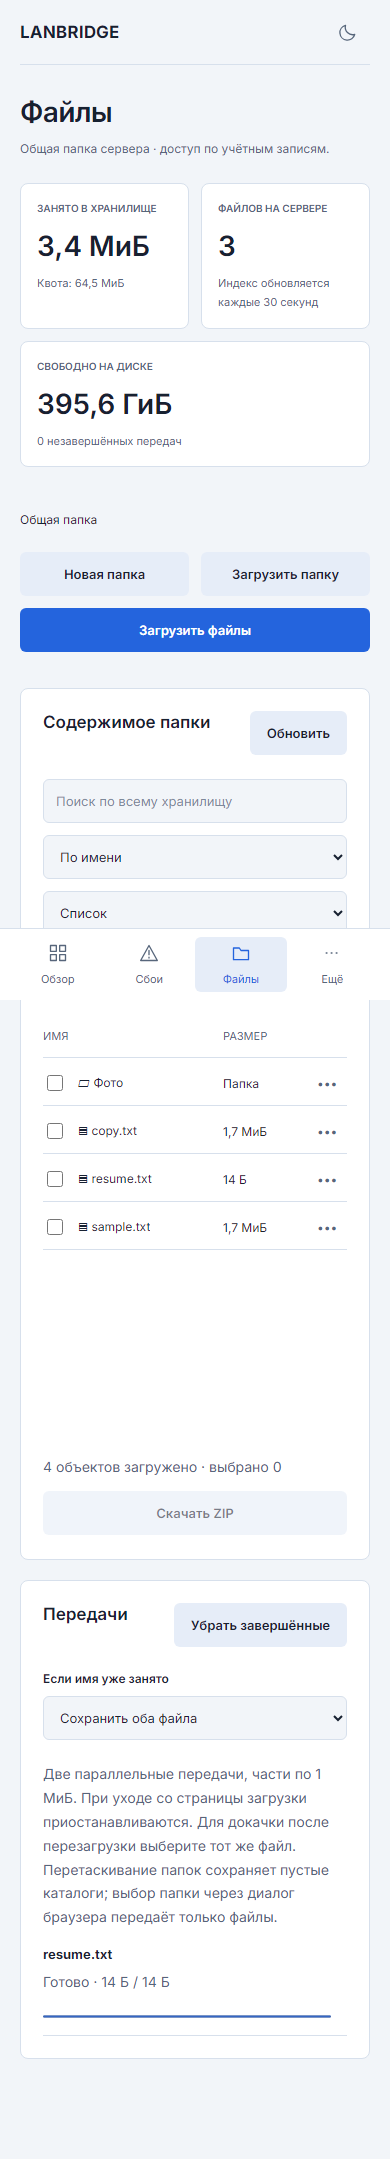
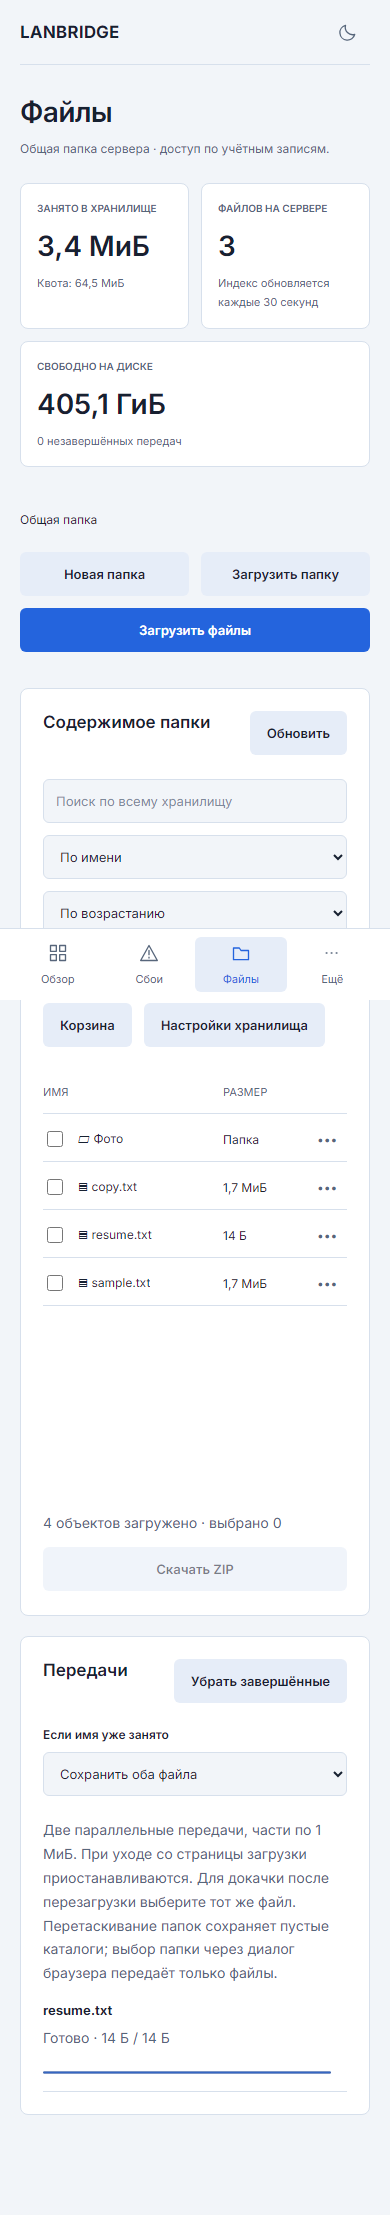
feat: add file sort direction

diff --git a/web/src/files.js b/web/src/files.js
@@ -10,15 +10,16 @@ const labels={queued:'В очереди',hashing:'Проверка SHA-256',uplo
 function hashFile(file,signal,onProgress){return new Promise((resolve,reject)=>{const worker=new Worker(new URL('./hash-worker.js',import.meta.url),{type:'module'});const close=()=>{worker.terminate();signal.removeEventListener('abort',abort)};const abort=()=>{close();reject(new DOMException('Приостановлено','AbortError'))};signal.addEventListener('abort',abort,{once:true});worker.onmessage=({data})=>{if(data.error){close();reject(new Error(data.error))}else if(data.hash){close();resolve(data.hash)}else onProgress(data.progress)};worker.onerror=()=>{close();reject(new Error('Не удалось вычислить SHA-256'))};worker.postMessage(file)})}
 export function FileBrowser({api,notify,user,csrf}){
  const[folder,setFolder]=useState('.'),[query,setQuery]=useState(''),[sort,setSort]=useState('name'),[items,setItems]=useState([]),[more,setMore]=useState(false),[loading,setLoading]=useState(true),[error,setError]=useState(''),[storage,setStorage]=useState(null),[selected,setSelected]=useState([]),[scroll,setScroll]=useState(0),[dialog,setDialog]=useState(null),[queue,setQueue]=useState([]),[conflict,setConflict]=useState('both'),[trash,setTrash]=useState(null);
+ const[order,setOrder]=useState('asc');
  const viewKey='lanbridge-file-view-'+user.id;
  const[view,setView]=useState(()=>{try{return localStorage.getItem(viewKey)==='grid'?'grid':'list'}catch{return 'list'}}),[width,setWidth]=useState(0);
  useEffect(()=>{try{localStorage.setItem(viewKey,view)}catch{/* Storage may be disabled; keep the in-memory preference. */}},[viewKey,view]);
  const input=useRef(),directory=useRef(),resumeInput=useRef(),viewport=useRef(),resumeItem=useRef(),jobs=useRef([]),active=useRef(0),alive=useRef(true),generation=useRef(0),refreshRef=useRef();
- const refresh=async(append=false)=>{const seq=++generation.current;setLoading(true);try{const data=await api('files?'+new URLSearchParams({path:folder,q:query,sort,order:'asc',limit:500,offset:append?items.length:0}));if(!alive.current||seq!==generation.current)return;setItems(append?[...items,...data]:data);setMore(data.length===500);setError('');if(!append){setScroll(0);if(viewport.current)viewport.current.scrollTop=0}setStorage(await api('files/storage'))}catch(e){if(alive.current)setError(e.message)}finally{if(alive.current&&seq===generation.current)setLoading(false)}};
+ const refresh=async(append=false)=>{const seq=++generation.current;setLoading(true);try{const data=await api('files?'+new URLSearchParams({path:folder,q:query,sort,order,limit:500,offset:append?items.length:0}));if(!alive.current||seq!==generation.current)return;setItems(append?[...items,...data]:data);setMore(data.length===500);setError('');if(!append){setScroll(0);if(viewport.current)viewport.current.scrollTop=0}setStorage(await api('files/storage'))}catch(e){if(alive.current)setError(e.message)}finally{if(alive.current&&seq===generation.current)setLoading(false)}};
  refreshRef.current=refresh;
  const redraw=()=>{if(alive.current)setQueue([...jobs.current])};
  useEffect(()=>{alive.current=true;api('uploads').then(data=>{if(!alive.current)return;jobs.current=data.map(u=>({...u,key:u.id,state:u.state==='committing'?'paused':'choose',serverState:u.state}));redraw()}).catch(e=>notify(e.message,true));return()=>{alive.current=false;for(const j of jobs.current)j.controller?.abort()}},[]);
- useEffect(()=>{setSelected([]);const timer=setTimeout(()=>refresh(),query?200:0);return()=>{clearTimeout(timer);generation.current++}},[folder,query,sort]);
+ useEffect(()=>{setSelected([]);const timer=setTimeout(()=>refresh(),query?200:0);return()=>{clearTimeout(timer);generation.current++}},[folder,query,sort,order]);
  async function request(path,method,body,signal,extra={}){const response=await fetch('/api/'+path,{method,signal,headers:{'X-CSRF-Token':csrf,...extra},body});const value=await response.json();if(!response.ok)throw new Error(value.error||'Ошибка передачи');return value}
  async function run(j){
   const controller=new AbortController();j.controller=controller;j.state='hashing';j.error='';redraw();
@@ -54,7 +55,7 @@ export function FileBrowser({api,notify,user,csrf}){
  return html`<div class="stats three"><section class="stat"><h2>ЗАНЯТО В ХРАНИЛИЩЕ</h2><strong>${storage?bytes(storage.used):'—'}</strong><p>${storage?.settings.global_limit?'Квота: '+bytes(storage.settings.global_limit):'Квота не ограничена'}</p></section><section class="stat"><h2>ФАЙЛОВ НА СЕРВЕРЕ</h2><strong>${storage?.files??'—'}</strong><p>Индекс обновляется каждые 30 секунд</p></section><section class="stat"><h2>СВОБОДНО НА ДИСКЕ</h2><strong>${storage?bytes(storage.available):'—'}</strong><p>${busy} незавершённых передач</p></section></div>
  <div class="file-actions"><nav aria-label="Путь к папке"><button class="monitor-name" onClick=${()=>setFolder('.')}>Общая папка</button>${folder!=='.'&&folder.split('/').map((part,i)=>html`<span> / <button class="monitor-name" onClick=${()=>setFolder(folder.split('/').slice(0,i+1).join('/'))}>${part}</button></span>`)}</nav><div class="dialog-actions"><button class="button secondary" onClick=${()=>setDialog({action:'mkdir'})}>Новая папка</button><button class="button secondary" onClick=${()=>directory.current.click()}>Загрузить папку</button><button class="button" onClick=${()=>input.current.click()}>Загрузить файлы</button></div></div>
  <input hidden type="file" multiple ref=${input} onChange=${e=>{addFiles(Array.from(e.currentTarget.files));e.currentTarget.value=''}}/><input hidden type="file" multiple webkitdirectory=${true} ref=${directory} onChange=${e=>{addFiles(Array.from(e.currentTarget.files));e.currentTarget.value=''}}/><input hidden type="file" ref=${resumeInput} onChange=${e=>{const file=e.currentTarget.files[0],j=resumeItem.current;if(file&&j){if(file.size!==j.size)notify('Размер исходного файла не совпадает',true);else{j.file=file;j.state='queued';redraw();pump()}}e.currentTarget.value=''}}/>
- <section class="panel file-panel" onDragOver=${e=>e.preventDefault()} onDrop=${dropped}><div class="panel-heading"><h2>Содержимое папки</h2><button class="button secondary" onClick=${()=>refresh()} disabled=${loading}>Обновить</button></div><div class="toolbar"><input aria-label="Поиск файлов" placeholder="Поиск по всему хранилищу" value=${query} onInput=${e=>setQuery(e.currentTarget.value)}/><select aria-label="Сортировка файлов" value=${sort} onChange=${e=>setSort(e.currentTarget.value)}><option value="name">По имени</option><option value="size">По размеру</option><option value="modified">По дате</option></select><select aria-label="Вид файлов" value=${view} onChange=${e=>setView(e.currentTarget.value)}><option value="list">Список</option><option value="grid">Плитки</option></select><button class="button secondary" onClick=${openTrash}>Корзина</button>${user.role==='admin'&&html`<button class="button secondary" disabled=${!storage} onClick=${()=>setDialog({action:'storage'})}>Настройки хранилища</button>`}</div>${error&&html`<p class="form-error" role="alert">${error}</p>`}
+ <section class="panel file-panel" onDragOver=${e=>e.preventDefault()} onDrop=${dropped}><div class="panel-heading"><h2>Содержимое папки</h2><button class="button secondary" onClick=${()=>refresh()} disabled=${loading}>Обновить</button></div><div class="toolbar"><input aria-label="Поиск файлов" placeholder="Поиск по всему хранилищу" value=${query} onInput=${e=>setQuery(e.currentTarget.value)}/><select aria-label="Сортировка файлов" value=${sort} onChange=${e=>setSort(e.currentTarget.value)}><option value="name">По имени</option><option value="size">По размеру</option><option value="modified">По дате</option></select><select aria-label="Порядок сортировки" value=${order} onChange=${e=>setOrder(e.currentTarget.value)}><option value="asc">По возрастанию</option><option value="desc">По убыванию</option></select><select aria-label="Вид файлов" value=${view} onChange=${e=>setView(e.currentTarget.value)}><option value="list">Список</option><option value="grid">Плитки</option></select><button class="button secondary" onClick=${openTrash}>Корзина</button>${user.role==='admin'&&html`<button class="button secondary" disabled=${!storage} onClick=${()=>setDialog({action:'storage'})}>Настройки хранилища</button>`}</div>${error&&html`<p class="form-error" role="alert">${error}</p>`}
  <div class="file-list-head" hidden=${view==='grid'}><span>ИМЯ</span><span>РАЗМЕР</span><span>ИЗМЕНЁН</span><span>ДОСТУП</span></div><div class="file-viewport" ref=${viewport} onScroll=${e=>setScroll(e.currentTarget.scrollTop)} aria-label="Список файлов" aria-busy=${loading} role="list"><div style=${{height:Math.max(Math.ceil(items.length/columns)*rowHeight,items.length?0:140)+'px',position:'relative'}}>${visible.map((item,i)=>html`<div role="listitem" class=${view==='grid'?'file-row file-tile':'file-row'} key=${item.path} aria-posinset=${start+i+1} aria-setsize=${items.length} style=${view==='grid'?{top:(Math.floor((start+i)/columns)*rowHeight)+'px',left:((start+i)%columns*100/columns)+'%',width:'calc('+100/columns+'% - 10px)'}:{top:((start+i)*48)+'px'}}><div class="file-name"><input type="checkbox" aria-label=${'Выбрать '+item.name} checked=${selected.includes(item.path)} onChange=${e=>setSelected(e.currentTarget.checked?[...selected,item.path]:selected.filter(p=>p!==item.path))}/>${item.directory?html`<button class="monitor-name" title=${item.path} onClick=${()=>{setFolder(item.path);setQuery('')}}>▱ ${item.name}</button>`:html`<a title=${item.path} href=${download(item.path)}>▤ ${item.name}</a>`}</div><span>${item.directory?'Папка':bytes(item.size)}</span><span>${new Date(item.modified/1e6).toLocaleDateString('ru-RU')}</span><div class="file-row-end"><span>${{users:'Пользователи',admin:'Администратор',read:'Чтение'}[item.access]}</span><button class="icon-button" aria-label=${'Действия: '+item.name} onClick=${()=>setDialog({action:'menu',item})}>•••</button></div></div>`)}${!items.length&&html`<div class="empty compact"><h3>${loading?'Загрузка…':query?'Ничего не найдено':'Папка пуста'}</h3><p>Перетащите сюда файлы или папки.</p></div>`}</div></div><div class="file-actions"><span class="muted">${items.length} объектов загружено · выбрано ${selected.length}</span><div class="dialog-actions">${more&&html`<button class="button secondary" disabled=${loading} onClick=${()=>refresh(true)}>Загрузить ещё</button>`}<button class="button secondary" disabled=${!selected.length} onClick=${zip}>Скачать ZIP</button></div></div></section>
  <section class="panel"><div class="panel-heading"><h2>Передачи</h2><button class="button secondary" onClick=${()=>{jobs.current=jobs.current.filter(j=>j.state!=='complete');redraw()}}>Убрать завершённые</button></div><label class="field"><span>Если имя уже занято</span><select value=${conflict} onChange=${e=>setConflict(e.currentTarget.value)}><option value="both">Сохранить оба файла</option><option value="skip">Пропустить (показать конфликт)</option><option value="replace">Заменить существующий файл</option></select></label><p class="muted">Две параллельные передачи, части по 1 МиБ. При уходе со страницы загрузки приостанавливаются. Для докачки после перезагрузки выберите тот же файл. Перетаскивание папок сохраняет пустые каталоги; выбор папки через диалог браузера передаёт только файлы.</p><div class="upload-list">${queue.map(j=>html`<div class="upload-row" key=${j.key}><div><strong>${j.path}</strong><p class="muted">${labels[j.state]} · ${bytes(j.offset||0)} / ${bytes(j.size)}${j.state==='hashing'?' · '+Math.round(100*(j.hashed||0)/Math.max(1,j.size))+'%':j.state==='uploading'&&j.speed?' · '+bytes(j.speed)+'/с · осталось '+Math.ceil((j.size-j.offset)/j.speed)+' с':''}</p><progress max=${Math.max(1,j.size)} value=${j.state==='complete'?Math.max(1,j.size):j.offset||0}/>${j.error&&html`<p class="form-error">${j.error}</p>`}</div><div class="dialog-actions">${['hashing','uploading','finishing'].includes(j.state)?html`<button class="button secondary" onClick=${()=>j.controller?.abort()}>Пауза</button>`:['paused','choose','error'].includes(j.state)&&html`<button class="button secondary" onClick=${()=>resume(j)}>${j.file||j.serverState==='committing'?'Продолжить':'Выбрать файл'}</button>`}${j.state!=='complete'&&html`<button class="icon-button" aria-label=${'Отменить '+j.path} onClick=${()=>cancel(j)}>×</button>`}</div></div>`)}</div>${!queue.length&&html`<p class="muted">Нет активных передач.</p>`}</section>
  ${dialog?.action==='storage'&&html`<${StorageSettings} settings=${storage.settings} api=${api} onClose=${()=>setDialog(null)} onSaved=${settings=>{setStorage({...storage,settings});setDialog(null);notify('Настройки хранилища сохранены')}}/>`}

diff --git a/scripts/verify_go_files.py b/scripts/verify_go_files.py
@@ -91,6 +91,20 @@ def main():
        page.screenshot(path=str(output/f'files-{device}-{theme}.png'),full_page=True)
        assert page.evaluate('()=>document.documentElement.scrollWidth<=innerWidth'), 'horizontal overflow'
      page.set_viewport_size({"width":1440,"height":1000})
+     page.get_by_label('Сортировка файлов',exact=True).select_option('size')
+     with page.expect_response(lambda r:'/api/files?' in r.url and 'order=desc' in r.url) as sorted_response:
+      page.get_by_label('Порядок сортировки',exact=True).select_option('desc')
+     entries=sorted_response.value.json()
+     sizes=[item['size'] for item in entries if not item['directory']]
+     assert sizes==sorted(sizes,reverse=True) and len(set(sizes))>1
+     page.wait_for_function("()=>document.querySelector('.file-row a')?.textContent.includes('copy.txt')")
+     with page.expect_response(lambda r:'/api/files?' in r.url and 'order=asc' in r.url) as sorted_response:
+      page.get_by_label('Порядок сортировки',exact=True).select_option('asc')
+     entries=sorted_response.value.json()
+     sizes=[item['size'] for item in entries if not item['directory']]
+     assert sizes==sorted(sizes)
+     page.wait_for_function("()=>document.querySelector('.file-row a')?.textContent.includes('resume.txt')")
+     page.get_by_label('Сортировка файлов',exact=True).select_option('name')
      # Generate 1,100 real empty folders through the API to exercise pagination.
      page.evaluate("""async()=>{const s=await(await fetch('/api/status')).json();for(let i=0;i<1100;i++){const r=await fetch('/api/files/mkdir',{method:'POST',headers:{'Content-Type':'application/json','X-CSRF-Token':s.csrf},body:JSON.stringify({path:'load-'+String(i).padStart(4,'0')})});if(!r.ok)throw new Error(await r.text())}}""")
      page.get_by_role('button',name='Обновить',exact=True).click();page.get_by_role('button',name='Загрузить ещё',exact=True).wait_for()

diff --git a/docs/go-files.md b/docs/go-files.md
@@ -13,7 +13,8 @@
 `webkitdirectory`: пустые каталоги этот интерфейс браузера не передаёт.
 
 Нажатие на папку открывает её содержимое, хлебные крошки возвращают выше. Поиск
-выполняется по именам во всём доступном хранилище. Сортировка: имя, размер, дата.
+выполняется по именам во всём доступном хранилище. Сортировка: имя, размер, дата; порядок — по возрастанию или убыванию.
+Папки остаются перед файлами в обоих направлениях.
 API отдаёт до 500 объектов за запрос; «Загрузить ещё» добавляет следующую страницу.
 Переключатель «Вид файлов» выбирает список или плитки. Выбор сохраняется
 в этом браузере отдельно для каждой учётной записи; при недоступном localStorage

diff --git a/README.md b/README.md
@@ -6,6 +6,7 @@
 > Уведомления, очередь и наблюдатель: [docs/go-notifications.md](docs/go-notifications.md).
 > Устройства и диагностика: [docs/go-devices.md](docs/go-devices.md).
 > Настройки квот доступны администратору в разделе «Файлы».
+> Доступна сортировка файлов по имени, размеру и дате в обоих направлениях.
 > Список файлов переключается на адаптивные плитки; выбор сохраняется в браузере.
 > Предпросмотр текста, изображений и видео — через меню файла «•••».
 > Файлы, докачка, права и корзина: [docs/go-files.md](docs/go-files.md).

diff --git a/CHANGELOG.md b/CHANGELOG.md
@@ -6,6 +6,9 @@
 
 ### Переход на Go
 
+- Добавлен выбор направления сортировки файлов; папки остаются первыми.
+  Браузерный тест проверяет оба направления по размеру.
+
 - Вид файлов сохраняется в браузере отдельно для каждой учётной записи.
   Проверено восстановление списка и плиток после перезагрузки.
 
